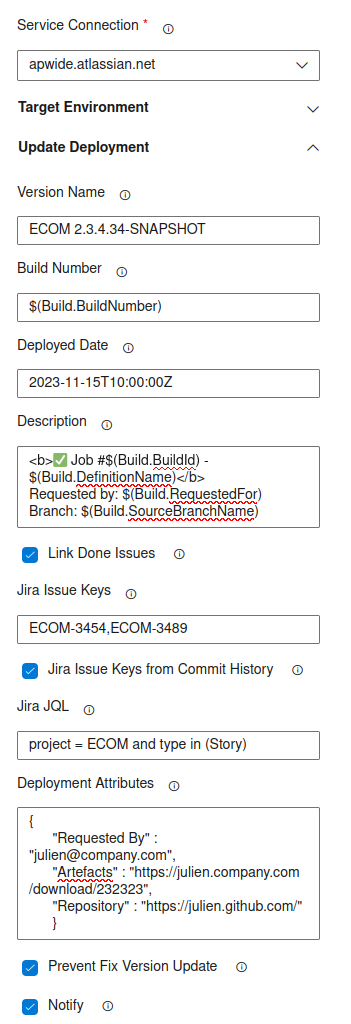
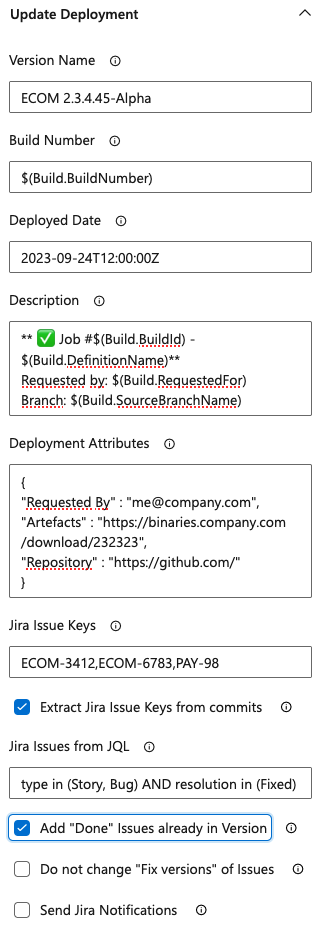
feat(naming): update documentation
TEM-3752

diff --git a/src/README.md b/src/README.md
@@ -17,7 +17,9 @@ With the Apwide Golive and Azure extension, you can leverage the robust capabili
 management features of Apwide Golive for Jira.
 
 This integration enables you to easily connect your Azure DevOps projects with Apwide Golive. Deployments and relevant environment information required by testers, release managers,... and other teams,
-are automatically pushed to Apwide Golive from your Azure DevOps pipelines.
+are automatically pushed to Apwide Golive and Jira from your Azure DevOps pipelines.
+
+Learn more about why it is important to track information of your environment [here](https://golive.apwide.com/doc/latest/cloud/track-your-environments)
 
 # Connect your Azure Project with Golive
 
@@ -41,14 +43,14 @@ The graphical assistant can also be used in “Release” pipelines:
 
 # Apwide Golive Environment pipeline task
 
-Use this task when your need to update deployment or to push any other information of your environments to Golive and Jira.
+Use this task to push any environment information (ex: deployment, status, configuration,...) to Golive when your pipelines are changing your environments.
 
 This is your “swiss knife” task to track your environments managed in Azure DevOps.
 
 ## Configure a new task using the graphical assistant
 
 ### Select the connection and specify the target Golive environment
-After having selected the Servie Connection to connect with your Golive server, you have to identify the environment you want to update in Golive.
+After having selected the Service Connection to connect with your Golive server, you have to identify the environment you want to update in Golive.
 
 #### Automatically create target environment (if missing in Golive)
 Select “auto create” option if you want to automatically create the environment based on the provided names if it does not exist yet in Golive:
@@ -65,8 +67,12 @@ If your pipeline is performing deployments, you can send the information of the 
 
 ![AzureCustomTaskDeploymentInformation.png](images/AzureCustomTaskDeploymentInformation.png)
 
-The "Jira Issue Keys from Commit History" option enables the parsing of commit messages to identify the issue keys that should be added to the deployment.
+Check the help information of each option in order to understand how to use it.
+
+For example, the "Extract Jira Issue Keys from commits" option enables the parsing of commit messages to identify the issue keys that should be added to the deployment.
 The task will go through all commits made from the current job to the last successful job.
+
+There are plenty of other options available that will drastically help you automate routines to simplify your pipelines.
 
 ### Update Environment Status
 If you want to update the status of the Golive environment (ex: when starting a deployment, after a deployment has been performed,…), open the “Update Status” section. Pick the desired status or type its name:
@@ -84,84 +90,63 @@ When working with yaml pipelines, the graphical assistant will generate yaml cod
 Example of generated yaml:
 
 ```yaml
-trigger:
-- main
-
-pool:
-vmImage: "ubuntu-latest"
-
-steps:
-  - task: ApwideGoliveSendEnvironmentInfos@1
-    inputs:
-      serviceConnection: 'apwide.atlassian.net'
-      targetEnvironmentName: 'eCommerce Demo'
-      targetAutoCreate: true
-      targetApplicationName: 'eCommerce'
-      targetCategoryName: 'Demo'
-      deploymentVersionName: 'ECOM 2.3.4.34-SNAPSHOT'
-      deploymentBuildNumber: '$(Build.BuildNumber)'
-      deploymentDeployedDate: '2023-11-15T10:00:00Z'
-      deploymentDescription: |
-          <b>✅ Job #$(Build.BuildId) - $(Build.DefinitionName)</b>
-          Requested by: $(Build.RequestedFor)
-          Branch: $(Build.SourceBranchName)
-      deploymentAttributes: |
-        {
-          "Requested By" : "julien@company.com",
-          "Artefacts" : "https://julien.company.com/download/232323",
-          "Repository" : "https://julien.github.com/"
-        }
-      deploymentIssueKeys: 'ECOM-3454,ECOM-3489'
-      deploymentIssueKeysFromCommitHistory: true
-      deploymentIssuesFromJql: 'project = ECOM and type in (Story)'
-      deploymentAddDoneIssuesOfJiraVersion: true
-      deploymentNoFixVersionUpdate: false
-      deploymentSendJiraNotification: false
-      environmentStatusId: '1'
-      environmentUrl: 'https://ecommerce.staging.company.com'
-      environmentAttributes: |
-        {
-        "OS" : "Linux",
-        "Location":"Switzerland",
-        "Owner":"me@company.com"
-        }
+- task: ApwideGoliveSendEnvironmentInfos@2
+  inputs:
+    serviceConnection: 'apwide.atlassian.net'
+    targetEnvironmentName: 'eCommerce Demo'
+    targetEnvironmentAutoCreate: true
+    targetApplicationName: 'eCommerce'
+    targetApplicationAutoCreate: true
+    targetCategoryName: 'Demo'
+    targetCategoryAutoCreate: true
+    deploymentVersionName: 'ECOM 2.3.4.45-Alpha'
+    deploymentBuildNumber: '$(Build.BuildNumber)'
+    deploymentDeployedDate: '2023-09-24T12:00:00Z'
+    deploymentDescription: |
+      ** ✅ Job #$(Build.BuildId) - $(Build.DefinitionName)**
+      Requested by: $(Build.RequestedFor)
+      Branch: $(Build.SourceBranchName)
+    deploymentAttributes: |
+      {
+      "Requested By" : "me@company.com",
+      "Artefacts" : "https://binaries.company.com/download/232323",
+      "Repository" : "https://github.com/"
+      }
+    deploymentIssueKeys: 'ECOM-3412,ECOM-6783,PAY-98'
+    deploymentIssueKeysFromCommitHistory: true
+    deploymentIssuesFromJql: 'project = ECOM and type in (Story, Bug) AND resolution in (Fixed)'
+    deploymentAddDoneIssuesOfJiraVersion: true
+    deploymentNoFixVersionUpdate: false
+    deploymentSendJiraNotification: false
+    environmentStatusName: 'Up'
+    environmentUrl: 'https://ecommerce.staging.company.com'
+    environmentAttributes: |
+      {
+      "OS" : "Linux Ubuntu",
+      "Location":"Switzerland",
+      "Owner":"me@company.com"
+      }
 ```
 
 # Send Release Information Task
 
-Capture release information about your application and request Golive to push them to your Jira instance.
-
-This task will:
-* create/update Jira version with provided information
-* compute scope of the release with different available strategies (eg: static issue keys, JQL, commits parsing)
-* update fix version of issues selected as part of the scope.
+Use this task to automatically keep your Jira versions/releases up to date when your pipelines are building/releasing new version of a Golive application.
+Depending on the Jira project(s) associated to each of your application in Golive, this task will automatically:
+* create the Jira versions in the right Jira projects
+* update the information of the Jira versions (start/release dates, description, status,...)
+* add Jira issues to the Jira version using different strategies (eg: static issue keys, JQL, commits parsing)
 
 ## Graphical assistant configuration
 
 ![SendReleaseInfo.png](images/SendReleaseInfo.png)
 
-### Target Application
-Requires a "Service Connection" to contact Golive and the Golive application currently being released.
-Based Golive Application - Jira Project Mapping, Golive will be able to know to which project information
-must be sent.
+Check the help information of each option in order to understand how to use it.
 
-### Version
-Describe version information and if it should be created in case it does not exist.
-"auto create version" set to "golive config" will rely on Golive application configuration to decide
-if version must be created automatically. You can also override it and force the version creation if you
-set it to true.
+For example, the "Extract Jira Issue Keys from commits" option enables the parsing of commit messages to identify the issue keys that should be added to the jira version/release.
+The task will go through all commits made from the current job to the last successful job.
 
-### Scope
-Choose which issues are part of the current release. Released version will be set as fix version of
-these issues.
+There are plenty of other options available that will drastically help you automate routines to keep your Jira versions/releases up to date.
 
-Scope can be provided from:
-* "Jira Issue Keys": static comma separated list of issue keys to include.
-* "Jira Issue Keys from Commit History": the task can parse commits messages between the current job and
-the last successful job to extract issue keys.
-* "Jira JQL": JQL executed on the Jira instance having Golive installed to.
-
-You can also choose to trigger a Jira notification to issue participants of issues having their fix version updated.
 
 ## YAML configuration
 
@@ -169,22 +154,21 @@ You can also choose to trigger a Jira notification to issue participants of issu
 - task: ApwideGoliveSendReleaseInfos@1
   inputs:
     serviceConnection: 'apwide.atlassian.net'
-    applicationId: '10'
-    versionName: 'ECOM 2.1.0.45-SNAPSHOT'
-    versionDescription: 'Enter description of your release here...'
-    versionStartDate: '2023-01-13T12:00:00Z'
-    versionReleaseDate: '2023-09-24T19:00:00Z'
+    applicationName: 'eCommerce'
+    versionName: 'ECOM 2.0.1.1'
+    versionDescription: 'Ecommerce candidate release'
+    versionStartDate: '2023-09-24T12:00:00Z'
+    versionReleaseDate: '2023-10-24T12:00:00Z'
     versionReleased: true
-    issuesNoFixVersionUpdate: false
-    issueKeys: 'ECOM-3454,ECOM-3489'
-    issuesFromJql: 'project = ECP and type in (Story)'
-    sendJiraNotification: true
+    issueKeys: 'ECOM-3412,PAY-102,ECOM-9986'
     issueKeysFromCommitHistory: true
+    issuesFromJql: 'project = ECOM and type in (Story, Bug) AND resolution in (Fixed)'
+    sendJiraNotification: false
 ```
 
 # Contact us
 
-The full documentation of this extension is available here:
+Documentation of common examples of use cases using this extension is available here:
 * for Apwide Golive Cloud: https://golive.apwide.com/doc/latest/cloud/azure-devops-tfs-vsts
 * for Apwide Golive for Jira Server / Data Center: https://golive.apwide.com/doc/latest/server-data-center/azure-devops-tfs-vsts
 
